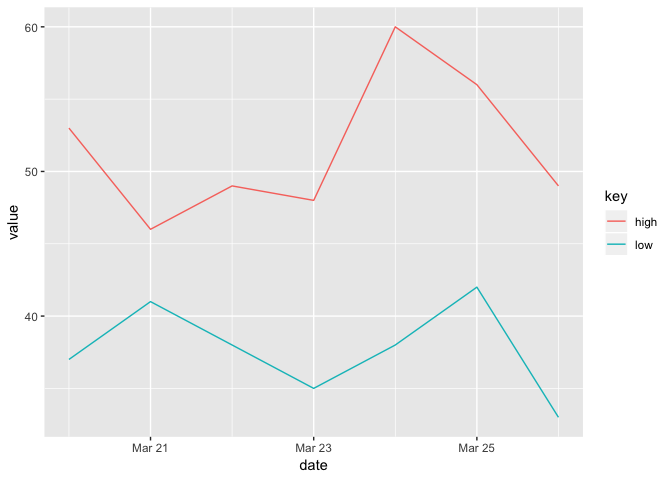
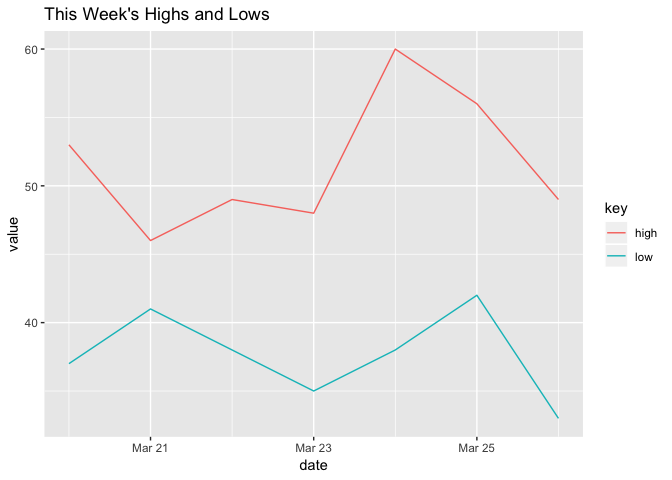
add title

diff --git a/temperature.md b/temperature.md
@@ -26,7 +26,7 @@ df <- tibble(date = as.Date("2019-03-20") + (0:6),
                  high = c(53, 46, 49, 48, 60, 56, 49)) %>% 
   gather(key, value, -date)
 
-ggplot(df, aes(date, value, color = key)) + geom_line()
+ggplot(df, aes(date, value, color = key)) + geom_line() + ggtitle("This Week's Highs and Lows")
 ```
 
 ![](temperature_files/figure-gfm/unnamed-chunk-1-1.png)<!-- -->
